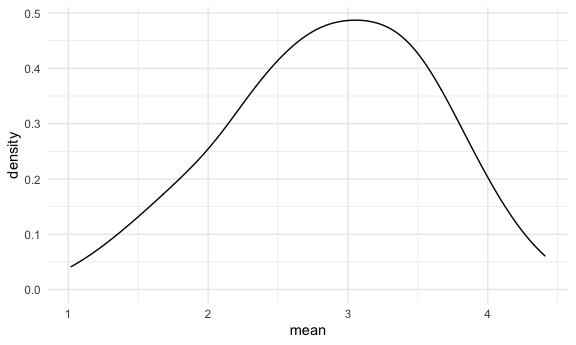
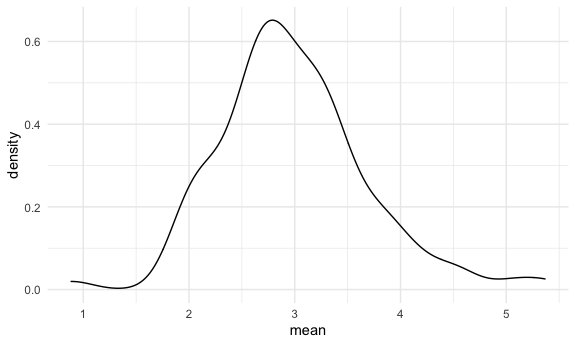
fin

diff --git a/simulation.md b/simulation.md
@@ -27,7 +27,7 @@ sim_mean_sd(300000)
     ## # A tibble: 1 x 2
     ##    mean    sd
     ##   <dbl> <dbl>
-    ## 1  2.98  4.00
+    ## 1  2.99  3.99
 
 ## Let’s simulate a lot
 
@@ -47,16 +47,16 @@ bind_rows(output)
     ## # A tibble: 100 x 2
     ##     mean    sd
     ##    <dbl> <dbl>
-    ##  1  3.59  3.81
-    ##  2  4.14  3.66
-    ##  3  3.47  3.63
-    ##  4  4.31  4.03
-    ##  5  2.42  4.56
-    ##  6  2.73  4.49
-    ##  7  3.02  3.36
-    ##  8  3.58  4.10
-    ##  9  2.58  4.21
-    ## 10  2.97  4.75
+    ##  1  3.26  4.18
+    ##  2  1.37  4.04
+    ##  3  4.82  4.40
+    ##  4  1.96  3.36
+    ##  5  3.30  3.98
+    ##  6  2.23  4.00
+    ##  7  3.94  3.71
+    ##  8  1.14  3.92
+    ##  9  2.74  4.65
+    ## 10  2.24  3.53
     ## # … with 90 more rows
 
 Let’s use a loop function.
@@ -87,7 +87,7 @@ sim_results %>%
     ## # A tibble: 1 x 2
     ##   avg_sample_mean sd_sample_mean
     ##             <dbl>          <dbl>
-    ## 1            2.87          0.732
+    ## 1            2.98          0.706
 
 ``` r
 sim_results %>% 
@@ -95,3 +95,71 @@ sim_results %>%
 ```
 
 <img src="simulation_files/figure-gfm/unnamed-chunk-5-2.png" width="90%" />
+
+## Let’s try other sample sizes.
+
+``` r
+n_list = 
+  list(
+    "n = 30" = 30,
+    "n = 60" = 60,
+    "n = 120" = 120,
+    "n = 240" = 240
+  )
+
+output = vector("list", length = 4)
+
+output[[1]] = rerun(100, sim_mean_sd(samp_size = n_list[[1]])) %>% bind_rows
+
+for(i in 1:4) {
+  
+  output[[i]] = rerun(100, sim_mean_sd(samp_size = n_list[[i]])) %>% 
+    bind_rows()
+}
+```
+
+``` r
+sim_results =
+tibble(
+  sample_size = c(30, 60, 120, 240)
+) %>% 
+  mutate(
+    output_lists = map(.x = sample_size, ~rerun(100, sim_mean_sd(.x))),
+    estimate_df = map(output_lists, bind_rows)
+  ) %>% 
+  select(-output_lists) %>% 
+  unnest(estimate_df)
+```
+
+Do some data frame things.
+
+``` r
+sim_results %>% 
+  mutate(
+    sample_size = str_c("n = ", sample_size),
+    sample_size = fct_inorder(sample_size)
+  ) %>% 
+  ggplot(aes(x = sample_size, y = mean)) + 
+  geom_boxplot()
+```
+
+<img src="simulation_files/figure-gfm/unnamed-chunk-8-1.png" width="90%" />
+
+``` r
+sim_results %>%
+  group_by(sample_size) %>% 
+  summarize(
+    avg_samp_mean = mean(mean),
+    sd_samp_mean = sd(mean)
+  )
+```
+
+    ## `summarise()` ungrouping output (override with `.groups` argument)
+
+    ## # A tibble: 4 x 3
+    ##   sample_size avg_samp_mean sd_samp_mean
+    ##         <dbl>         <dbl>        <dbl>
+    ## 1          30          3.08        0.681
+    ## 2          60          3.10        0.478
+    ## 3         120          3.04        0.388
+    ## 4         240          2.99        0.291
